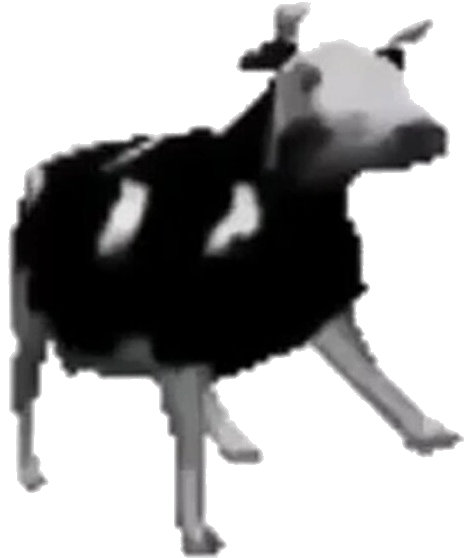
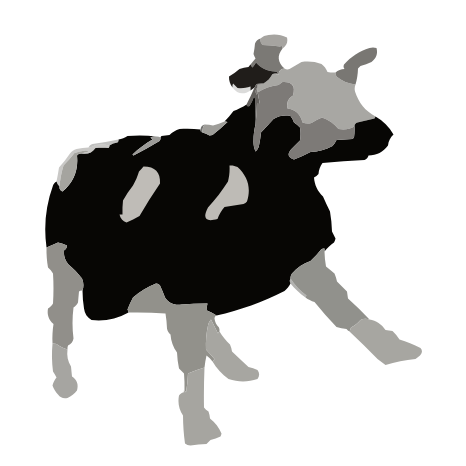
feat ( expert page link preview )

Changed region(s): [[0.0, 0.0, 0.9914, 1.0]]

diff --git a/src/app/expert/[id]/opengraph-image.tsx b/src/app/expert/[id]/opengraph-image.tsx
@@ -21,7 +21,7 @@ const og = async (props: Props) => {
 
   const data: TeacherData = jsonData.data
 
-  const image = (await fetch(new URL('./cow2.png', import.meta.url)).then(
+  const image = (await fetch(new URL('./cow.png', import.meta.url)).then(
     (res) => res.arrayBuffer()
   )) as string
 
